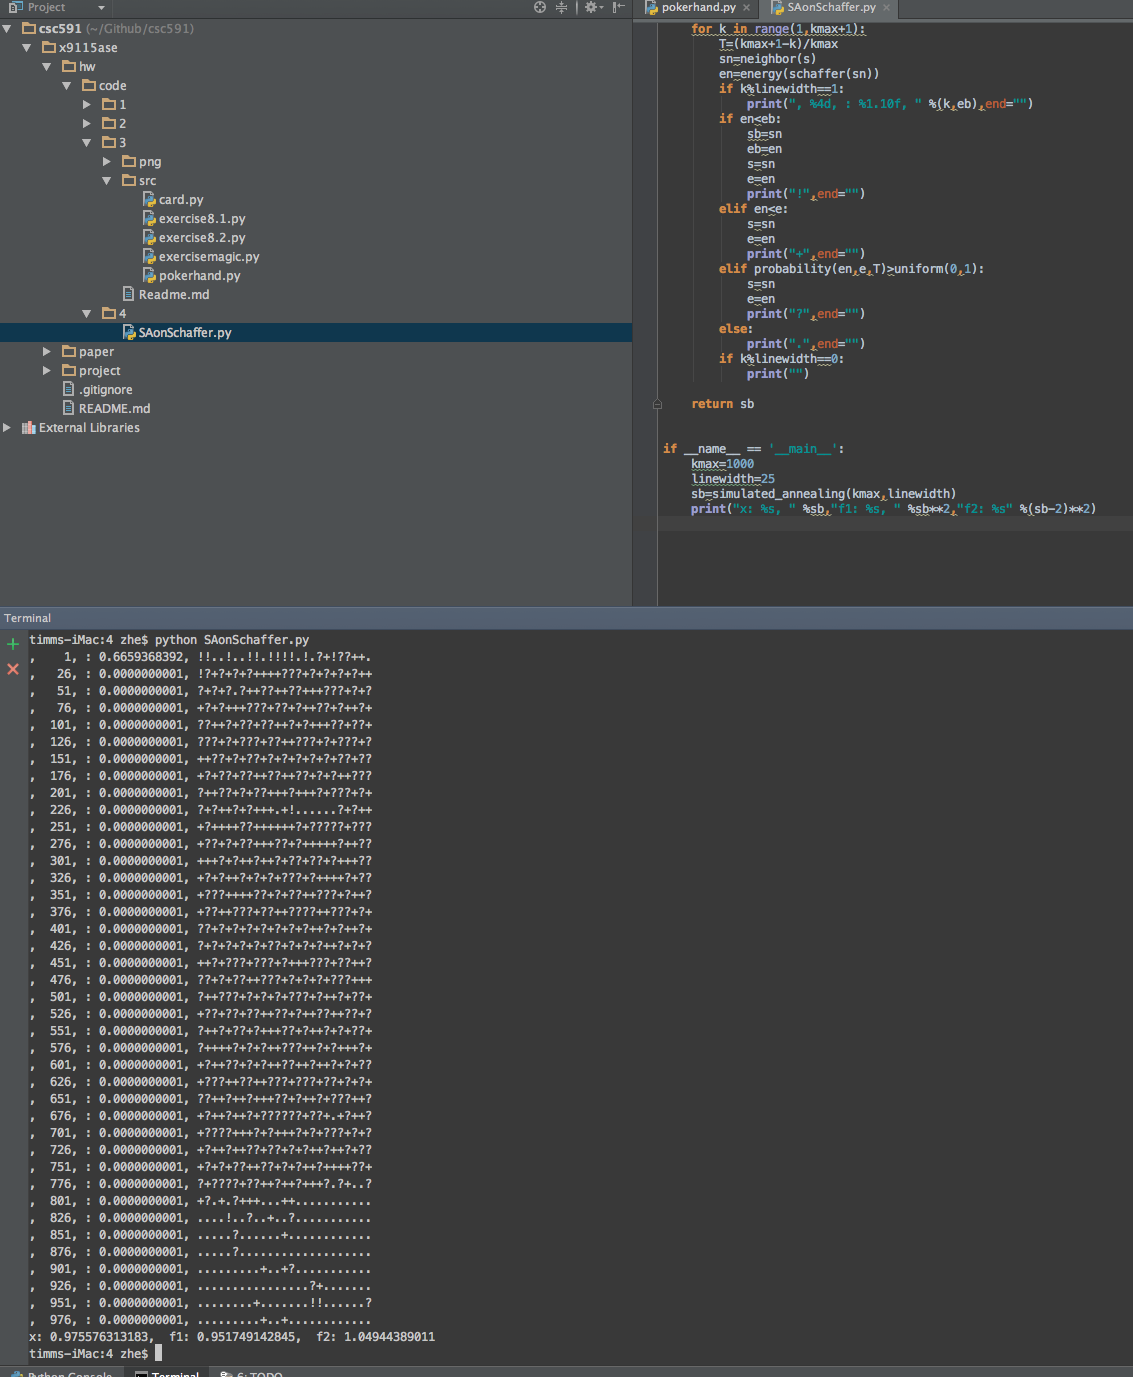
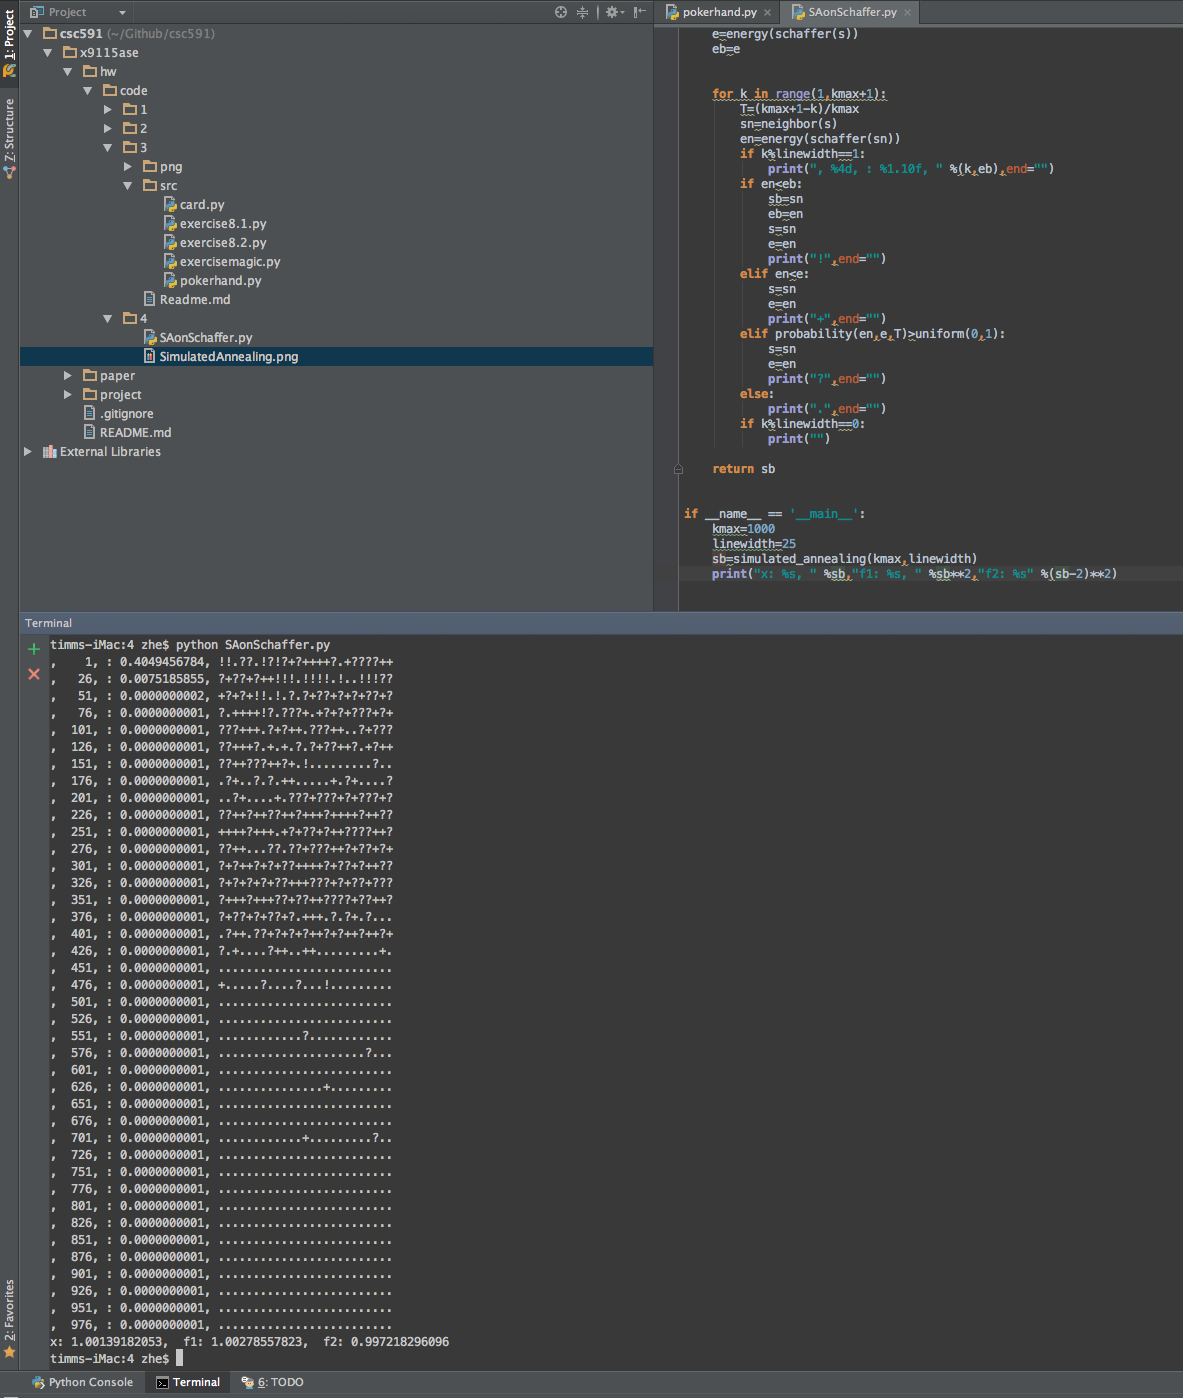
code 4

diff --git a/hw/code/4/SAonSchaffer.py b/hw/code/4/SAonSchaffer.py
@@ -14,7 +14,7 @@ def energy(x):
     return x/rang
 
 def probability(en,e,T):
-    return np.e**(-((en-e)/abs(en))/T)
+    return np.e**(-((en-e)/abs(en))/T**6)
 
 def neighbor(x):
     xmax=10**5
